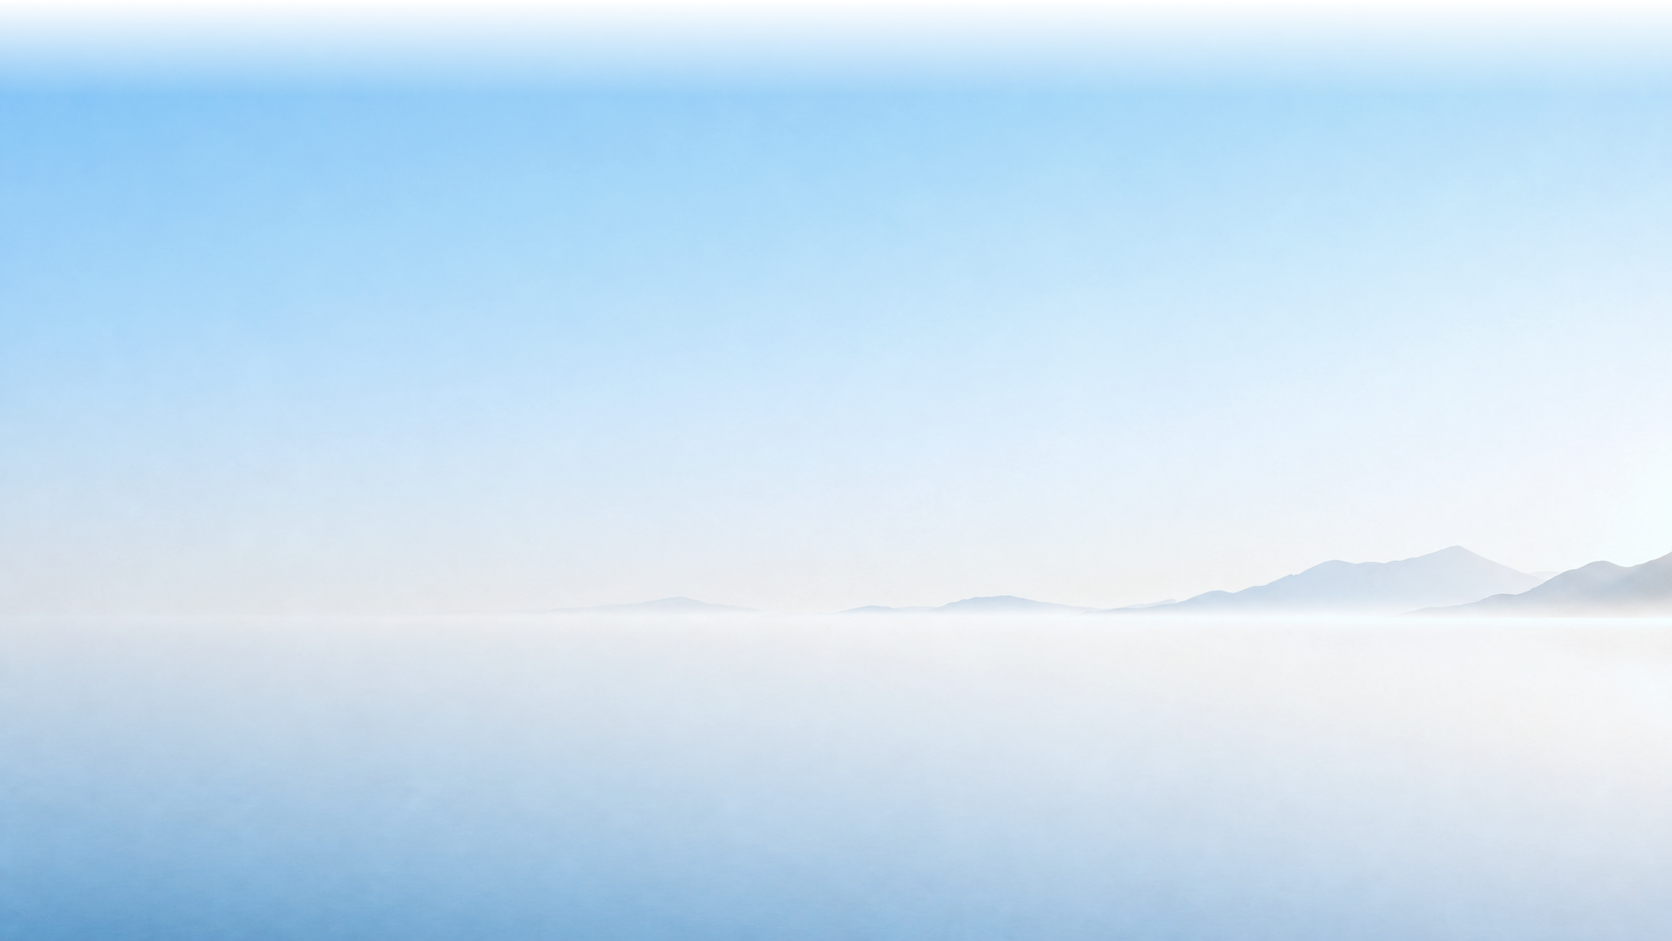
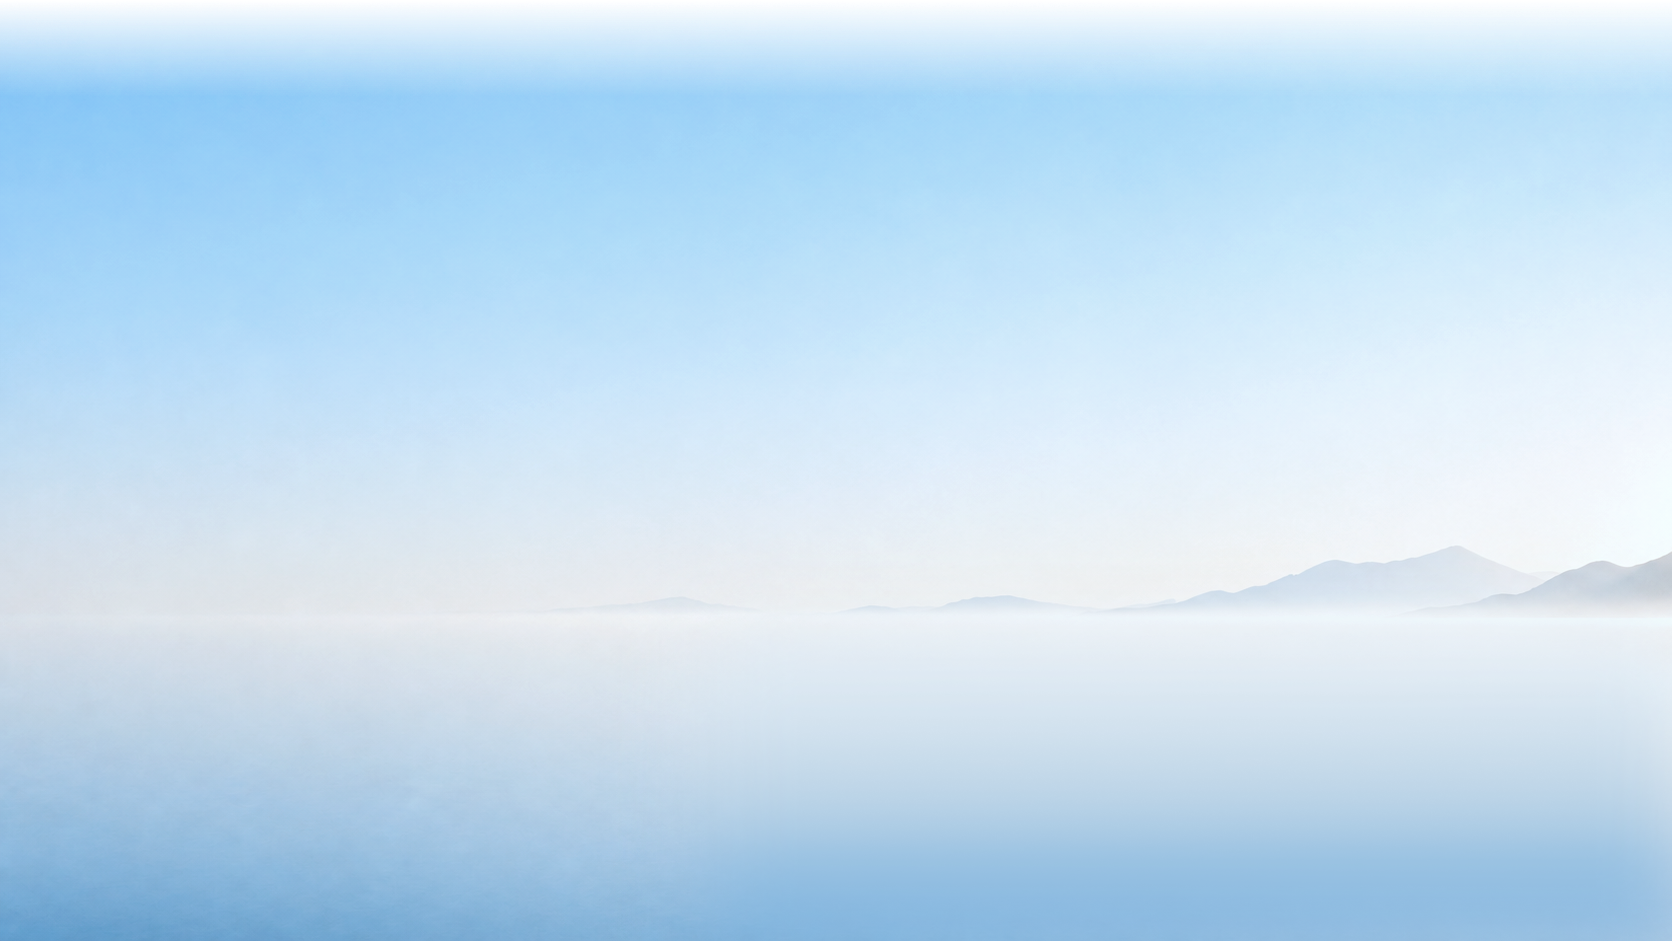
改海绵颜色

Changed region(s): [[0.5287, 0.7088, 1.0, 1.0]]

diff --git a/public/intro/script.js b/public/intro/script.js
@@ -170,7 +170,7 @@
     const gl = seaCanvas.getContext("webgl", {
       antialias: true,
       alpha: true,
-      premultipliedAlpha: false,
+      premultipliedAlpha: true,
       powerPreference: "high-performance",
     });
     if (!gl) return null;
@@ -221,20 +221,14 @@
       "  vec2 disp=vec2(nrm.x*1.3,nrm.y)*REFLECT_DISTORT*20.0;" +
       "  disp*=depth;" +                                  // 远处几乎镜面，近处略扰
       "  vec4 c=texture2D(u_tex,uv+disp);" +
-      // Fresnel：越靠下视角越低，反射越强（轻微提亮压低饱和）
-      "  float fres=pow(1.0-depth,FRESNEL_POWER);" +
-      "  float reflectGain=mix(1.0,1.12,1.0-fres);" +
-      "  vec3 col=c.rgb*reflectGain;" +
-      // 柔和 shimmer：法线起伏处叠很淡的高光闪烁
-      "  float shim=pow(max(h0,0.0),3.0)*SHIMMER*depth;" +
-      "  col+=shim;" +
-      // 低饱和清晨调：轻微去饱和，向冷调柔化
-      "  float luma=dot(col,vec3(0.299,0.587,0.114));" +
-      "  col=mix(vec3(luma),col,0.88);" +
-      // 远处雾化：水面上缘向天空色淡入融合，避免硬边
-      "  float fog=smoothstep(0.40,0.52,uv.y);" +
-      "  float a=c.a*u_alpha*fog;" +
-      "  gl_FragColor=vec4(col,a);" +
+      // 忠实还原原图颜色：不提亮、不叠高光、不去饱和，保持原图的通透鲜亮
+      "  vec3 col=c.rgb;" +
+      // 远处雾化：水面上缘向天空色淡入融合
+      "  float fog=smoothstep(0.44,0.58,uv.y);" +
+      // 左右两侧渐隐
+      "  float edgeX=smoothstep(0.0,0.08,uv.x)*smoothstep(1.0,0.75,uv.x);" +
+      "  float a=c.a*u_alpha*fog*edgeX;" +
+      "  gl_FragColor=vec4(col*a,a);" +
       "}";
 
     function compile(type, src) {
@@ -262,7 +256,7 @@
     gl.vertexAttribPointer(aPos, 2, gl.FLOAT, false, 0, 0);
 
     gl.enable(gl.BLEND);
-    gl.blendFunc(gl.SRC_ALPHA, gl.ONE_MINUS_SRC_ALPHA);
+    gl.blendFunc(gl.ONE, gl.ONE_MINUS_SRC_ALPHA);
 
     const uTime = gl.getUniformLocation(prog, "u_time");
     const uAlpha = gl.getUniformLocation(prog, "u_alpha");